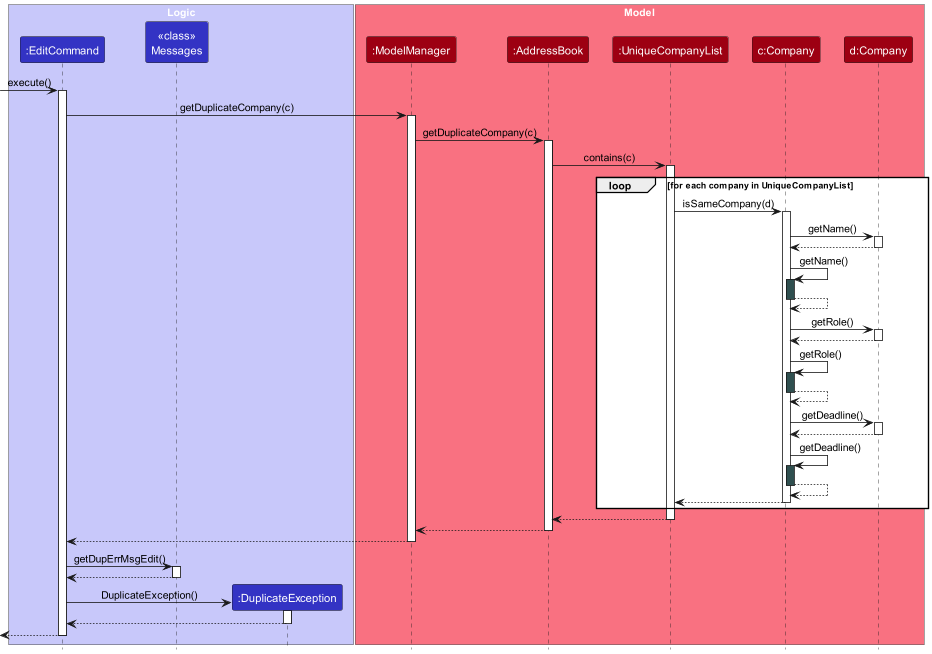
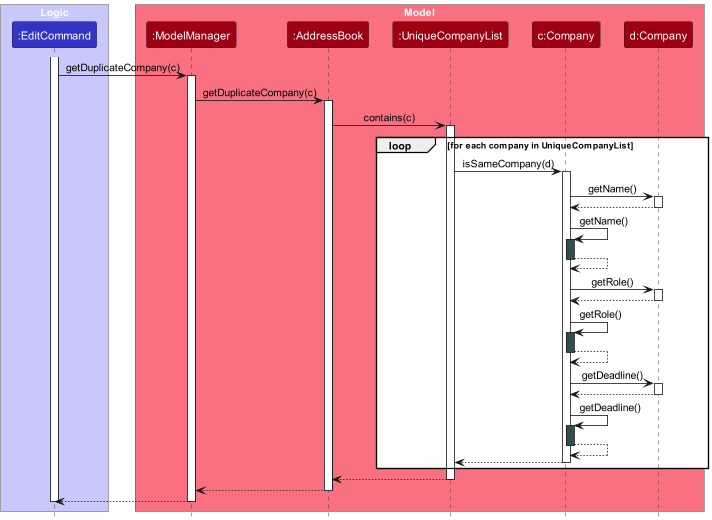
Update DG to fix Duplicate and Add Cmd

diff --git a/docs/DeveloperGuide.md b/docs/DeveloperGuide.md
@@ -370,26 +370,33 @@ namely the company name, role and deadline fields to match that of another compa
 The purpose of the diagram is a **simplified** view of the message passing when a _duplicate_ company is detected.
 
 Therefore, the diagram omits the following
-1. The `if` statements in the `isSameCompany` method checking for strict equality with
-   `this` and company d with `null`. These blocks were added as a defensive programming measure and are
-   therefore removed to simplify the diagram.
-1. The `equals` method propagated to `Name`, `Role` and `Deadline` through the
-   `getName()`, `getRole()` and `getDeadline()` methods. This would involve the details of the
-   equality checks of the `Name`, `Role` and `Deadline` overcomplicating the diagram with 3 more classes.
+1. The `if` statement in the `EditCommand` class that checks if the edited company is the same as the company to be
+   edited before the call to `getDuplicateCompany(c)`. This is removed as the purpose of the diagram is to show the message
+   passing **after** a duplicate company is detected.
+1. The `if` statements in the `isSameCompany` method checking for strict equality with `this` and company d with`null`.
+   This is removed to simplify the diagram and not show the inner-workings of the method in detail.
+1. The `equals` method propagated after the `getName()`, `getRole()` and `getDeadline()` methods. Again, this would
+   involve the details of the equality checks of the `Name`, `Role` and `Deadline` classes which is not the focus of the
+   diagram.
+1. The instantiation of the `CommandException` class through the `super` call from `DuplicateException` class.
+   This is removed to simplify the diagram.
 
 **Description of the diagram**
 
+Upon ascertaining that the edited company is a duplicate,
 1. The `EditCommand` class calls the `getDuplicateCompany(c)` method in the `ModelManager` class.
 1. `ModelManager` forwards the call to the `AddressBook` class.
 1. The `AddressBook` class calls the `contains(c)` method in the `UniqueCompanyList` class.
 1. The `UniqueCompanyList` class calls the `Company::isSameCompany` method for each company in the list
    to check if the edited company is a duplicate.
-1. `Company c` self-invokes the `getName()`, `getRole()` and `getDeadline()` methods and also
-   invokes the `getName()`, `getRole()` and `getDeadline()` on `Company c` to check for equality.
+1. `Company::isSameCompany` self-invokes the `getName()`, `getRole()` and `getDeadline()` methods and also
+   invokes the `getName()`, `getRole()` and `getDeadline()` on the company d to check for equality.
 1. The duplicated company is returned to the `EditCommand` class.
+1. From there, the message is formatted by the `Messages` class using the `getDupErrMsgEdit()` method.
+1. The `EditCommand` class then instantiates a `DuplicateException` instance with the formatted message.
+1. Error is thrown back to the caller of the `EditCommand` class.
 
-Below is an activity diagram showing the events when a user attempts to **add**
-a duplicate company to the company list.
+Below is an activity diagram showing the events when a user attempts to **add** a duplicate company to the company list.
 
 <img src="images/duplicate-detection/add-command/DuplicateActivityDiagram.png"/>
 
@@ -414,7 +421,6 @@ getDuplicateCompany(toAdd) method, which has already been shown in the sequence 
       are identical, it likely indicates the same job application. The purpose of the duplicate detection is to prevent
       interns from inadvertently applying multiple times to the same position at a company with the same role and
       application deadline.
-
 
 ### Remark Feature
 
